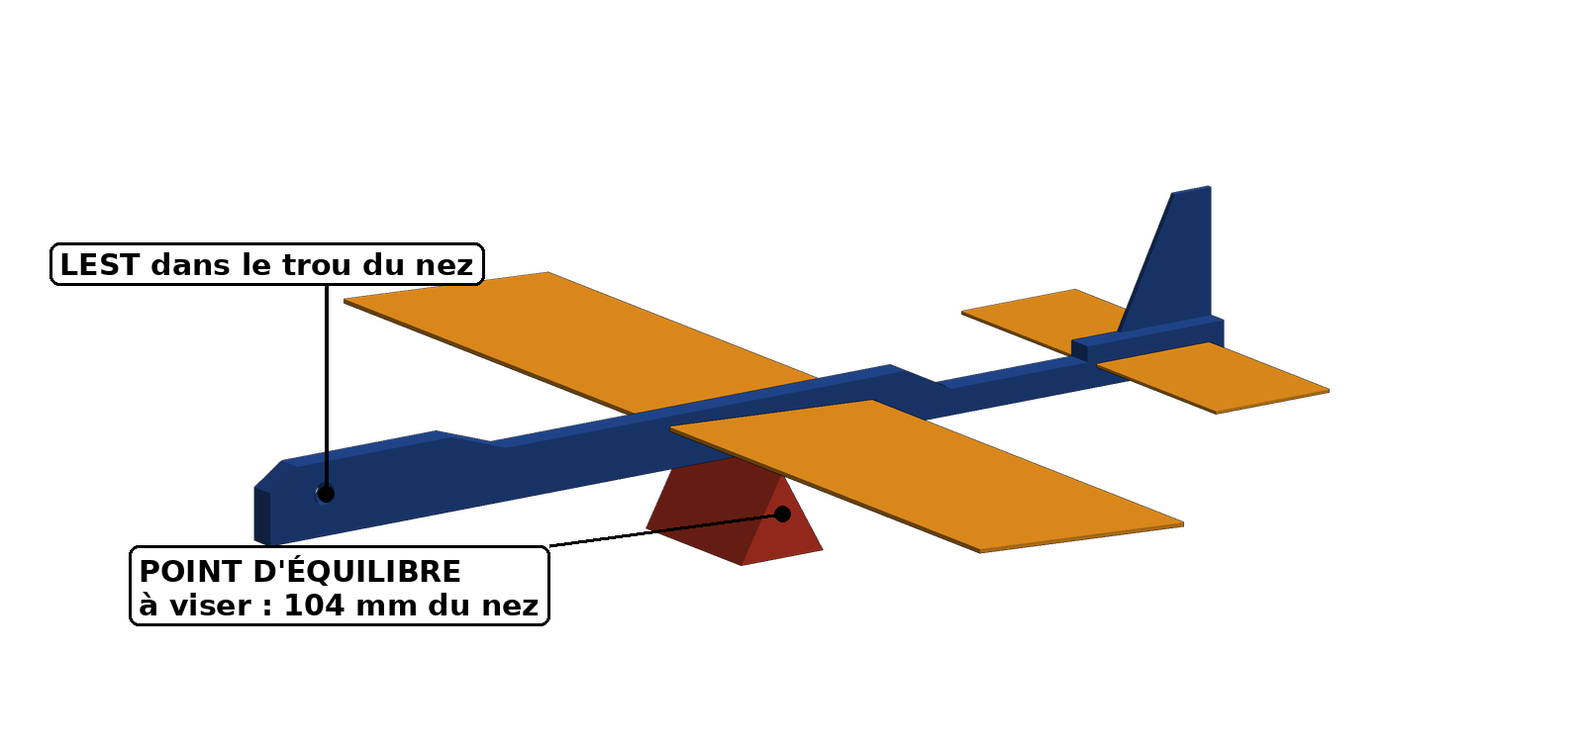
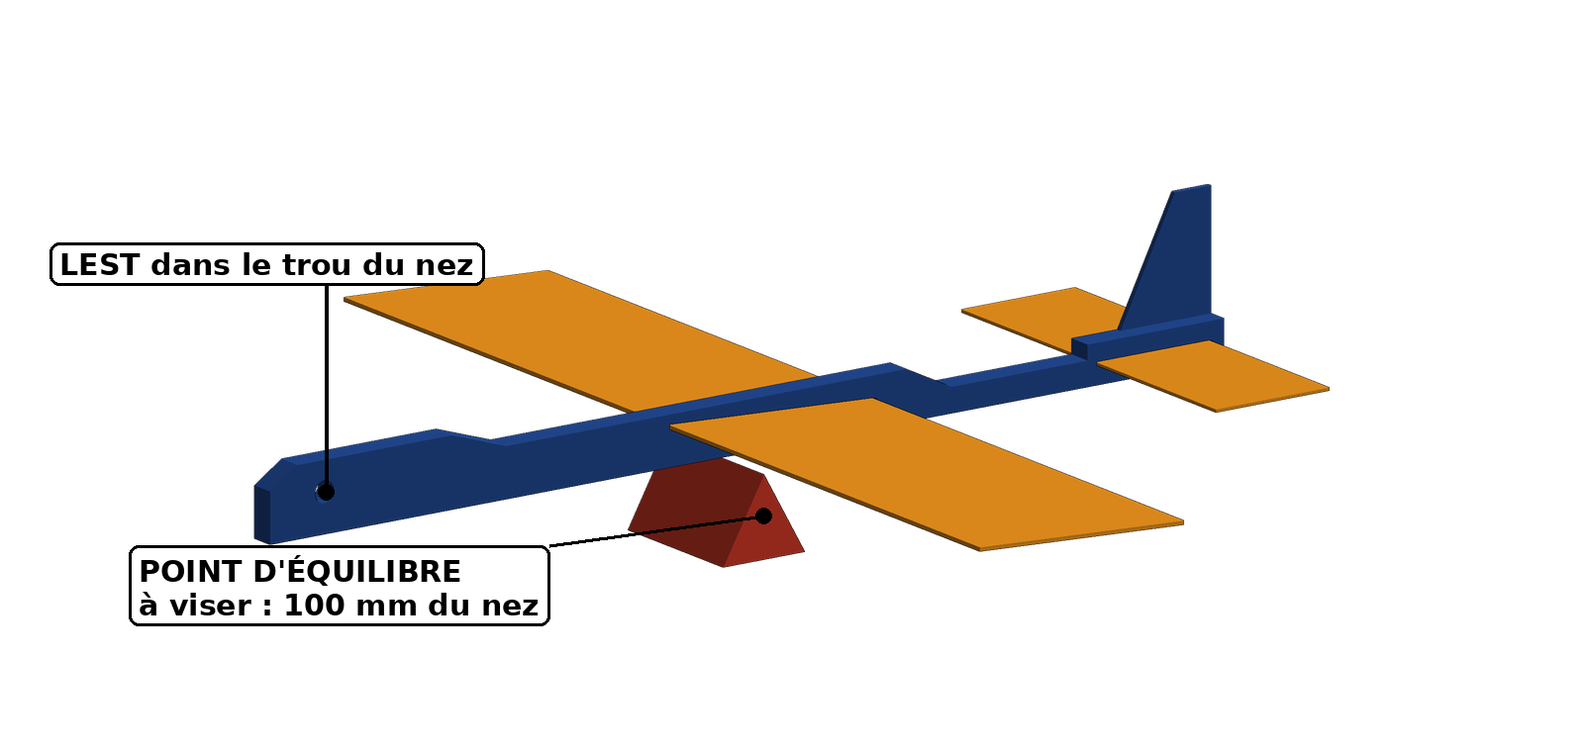
Seconde SI, projet planeur : simulateur de vol
Onglet Simulateur (modèle 2D : poids, portance, traînée, stabilisateur, décrochage),
comparaison de deux vols, distance prévue envoyée dans le carnet d'essais avec l'écart
prévu / mesuré. Planeur de départ réglé à 27 % de la corde (100 mm, 3,9 g de lest).

Claude-Session: https://claude.ai/code/session_01LEL1YR2pphRKncckxF2ooe

diff --git a/entrainements/2si-planeur.html b/entrainements/2si-planeur.html
@@ -26,6 +26,18 @@
 .pl-leg{display:flex;flex-wrap:wrap;gap:4px 14px;font-size:.88rem;margin:0 0 10px}
 .pl-leg i{display:inline-block;width:12px;height:12px;border-radius:3px;margin-right:5px;vertical-align:-1px}
 .pl-et-thumb{width:96px;height:56px;object-fit:contain}
+.sim-haut{display:flex;gap:22px;align-items:center;flex-wrap:wrap}
+.sim-dist{font-family:var(--f-disp);font-weight:700;font-size:2.6rem;line-height:1;color:var(--accent)}
+.sim-verdict{display:flex;flex-direction:column;gap:4px;flex:1;min-width:240px}
+.sim-res{display:grid;grid-template-columns:repeat(auto-fit,minmax(190px,1fr));gap:6px 18px;margin-top:8px}
+.sim-res div{display:flex;justify-content:space-between;gap:10px;border-bottom:1px solid var(--rule);padding:3px 0;font-size:.93rem}
+.sim-grille{display:grid;grid-template-columns:repeat(auto-fit,minmax(300px,1fr));gap:12px;margin-bottom:12px}
+.sim-grille .carte{margin:0}
+.sim-ligne{display:grid;grid-template-columns:1fr;gap:2px;margin:9px 0;font-size:.93rem}
+.sim-ctl{display:flex;align-items:center;gap:10px}
+.sim-ligne input[type=range]{flex:1;min-width:0}
+.sim-val{display:flex;align-items:center;gap:5px;color:var(--ink-3);min-width:7.6em}
+.sim-val input{width:5.4em;font:inherit;padding:3px 5px;border:1px solid var(--rule);border-radius:4px;background:var(--paper);color:var(--ink)}
 @media (max-width:640px){.pl-trio{grid-template-columns:1fr}.pl-hero{grid-template-columns:1fr}.pl-et-thumb{display:none}}
 table.pl{width:100%;border-collapse:collapse;font-size:.95rem;margin:8px 0}
 table.pl th,table.pl td{border:1px solid var(--rule);padding:7px 9px;text-align:left;vertical-align:top}
@@ -73,6 +85,7 @@ kbd{font-family:var(--f-mono);font-size:.85em;border:1px solid var(--rule);borde
   <button role="tab" data-s="comprendre">Comprendre</button>
   <button role="tab" data-s="etapes">Les étapes</button>
   <button role="tab" data-s="onshape">Missions Onshape</button>
+  <button role="tab" data-s="sim">Simulateur</button>
   <button role="tab" data-s="essais">Mes essais</button>
   <button role="tab" data-s="eval">Évaluation</button>
 </div>
@@ -84,7 +97,7 @@ kbd{font-family:var(--f-mono);font-size:.85em;border:1px solid var(--rule);borde
     <ul>
       <li>Équipes de 2 ou 3. Un planeur par équipe.</li>
       <li>Chaque planeur est lancé <b>3 fois</b>, à la main, depuis la ligne de départ, par le même élève de l'équipe. On garde la <b>moyenne</b> des 3 distances.</li>
-      <li>Le lancer se fait <b>à plat, droit devant</b>, les pieds derrière la ligne. On pousse le planeur, on ne le jette pas vers le haut.</li>
+      <li>Le lancer se fait <b>à plat, droit devant</b>, les pieds derrière la ligne. On le lance franchement, sans viser le haut.</li>
       <li>La distance se mesure de la ligne de départ jusqu'au <b>premier point où le planeur touche le sol</b>.</li>
       <li>Tu as droit à deux versions : la version 1, puis une version 2 améliorée après les essais.</li>
     </ul>
@@ -117,7 +130,7 @@ kbd{font-family:var(--f-mono);font-size:.85em;border:1px solid var(--rule);borde
   <details class="carte no-print"><summary><b>Pour le professeur : fichiers à imprimer</b></summary>
     <p><b>Catapulte (version 2), facultative</b> : les essais se font à la main, elle ne sert que si tu veux un lancer mécanique. Fichiers : <a href="2si-planeur/catapulte_rail_avant.stl" download>rail avant</a> · <a href="2si-planeur/catapulte_rail_arriere.stl" download>rail arrière</a> · <a href="2si-planeur/catapulte_chariot.stl" download>chariot</a> · <a href="2si-planeur/catapulte_eclisse.stl" download>manchon de jonction</a> · <a href="2si-planeur/catapulte_pied_avant.stl" download>pied avant</a> · <a href="2si-planeur/catapulte_pied_arriere.stl" download>pied arrière</a>. Il faut en plus deux tiges de 3 mm (clous ou vis M3 de 20 mm) et un élastique. Mode d'emploi en images : <a href="2si-planeur/img_1_ensemble.png" target="_blank" rel="noopener">1. montée et armée</a> · <a href="2si-planeur/img_2_montage.png" target="_blank" rel="noopener">2. le montage</a> · <a href="2si-planeur/img_3_coupe.png" target="_blank" rel="noopener">3. vue en coupe</a> · <a href="2si-planeur/img_4_apres.png" target="_blank" rel="noopener">4. après le tir</a> · <a href="2si-planeur/catapulte_v2_mode_emploi.png" target="_blank" rel="noopener">schéma de côté</a>.</p>
     <p><b>Planeurs de démonstration (version 2)</b> (ils gardent un crochet sous le nez, qui sert aussi de prise pour les doigts), une aile et un stabilisateur pour les trois fuselages : <a href="2si-planeur/planeur_aile.stl" download>aile</a> · <a href="2si-planeur/planeur_stabilisateur.stl" download>stabilisateur</a> · <a href="2si-planeur/planeur_fuselage_reference.stl" download>fuselage de référence</a> · <a href="2si-planeur/planeur_fuselage_cabre.stl" download>fuselage qui cabre</a> · <a href="2si-planeur/planeur_fuselage_pique.stl" download>fuselage qui pique</a>. <a href="2si-planeur/planeurs_v2_apercu.png" target="_blank" rel="noopener">Aperçu</a>.</p>
-    <p><b>Planeur de départ des élèves</b> (celui des missions 3 à 6, pour le tester avant eux) : <a href="2si-planeur/depart_fuselage.stl" download>fuselage</a> · <a href="2si-planeur/depart_aile.stl" download>aile</a> · <a href="2si-planeur/depart_stabilisateur.stl" download>stabilisateur</a>. Il lui faut environ 2,6 g de lest dans le trou du nez.</p>
+    <p><b>Planeur de départ des élèves</b> (celui des missions 3 à 6, pour le tester avant eux) : <a href="2si-planeur/depart_fuselage.stl" download>fuselage</a> · <a href="2si-planeur/depart_aile.stl" download>aile</a> · <a href="2si-planeur/depart_stabilisateur.stl" download>stabilisateur</a>. Il lui faut environ 3,9 g de lest dans le trou du nez, pour un point d'équilibre à 100 mm du nez.</p>
     <p><a class="btn" href="2si-planeur-notes.html">Noter les équipes →</a></p>
     <p class="discret">Fuselages et chariot à 100 % de remplissage, posés à plat. L'aile s'imprime debout sur son bord d'attaque, avec une bordure d'adhérence. Les limites du cahier des charges et le barème se changent directement dans cette page (<code>entrainements/2si-planeur.html</code>).</p>
   </details>
@@ -198,7 +211,7 @@ kbd{font-family:var(--f-mono);font-size:.85em;border:1px solid var(--rule);borde
     </svg>
     <div class="formule">charge alaire = <span class="frac"><span class="nu">masse du planeur</span><span class="sr"> sur </span><span class="de">surface de l'aile</span></span></div>
     <p>Plus la charge alaire est <b>petite</b>, plus le planeur peut voler lentement sans tomber. Un planeur chargé doit aller vite, et un lancer un peu mou ne lui suffit pas.</p>
-    <p class="astuce"><b>Pour ton planeur :</b> deux façons de baisser la charge alaire : <b>enlever de la masse</b> (pièces plus fines, arrière allégé, donc moins de lest) ou <b>agrandir l'aile</b> (mais elle pèse alors plus lourd). Le planeur de départ est à environ 0,29 g/cm².</p>
+    <p class="astuce"><b>Pour ton planeur :</b> deux façons de baisser la charge alaire : <b>enlever de la masse</b> (pièces plus fines, arrière allégé, donc moins de lest) ou <b>agrandir l'aile</b> (mais elle pèse alors plus lourd). Le planeur de départ est à environ 0,30 g/cm².</p>
   </div>
 
   <div class="carte"><div class="eyebrow">Notion 5</div>
@@ -349,8 +362,8 @@ kbd{font-family:var(--f-mono);font-size:.85em;border:1px solid var(--rule);borde
       <tr><td>Stabilisateur</td><td class="n">1,2 cm³</td><td class="n">1,5 g</td></tr>
       <tr><th>Planeur de départ, sans lest</th><th class="n"></th><th class="n">23 g</th></tr>
     </table></div>
-    <p>Ce planeur a la queue trop lourde : sans lest, son point d'équilibre est à <b>115 mm</b> du nez, trop en arrière. Il lui faut environ <b>2,8 g</b> dans le trou du nez (une vis M4 avec son écrou, ou de la pâte à fixe) pour le ramener vers <b>104 mm</b>. Total : environ <b>26 g</b>.</p>
-    <figure class="pl-fig"><img class="pl-img" src="2si-planeur/img/m6.png" alt="Planeur de départ monté, posé en équilibre sur une cale placée sous l'aile" loading="lazy"><figcaption>Le planeur de départ monté : il doit tenir en équilibre sur une cale placée à 104 mm du nez</figcaption></figure>
+    <p>Ce planeur a la queue trop lourde : sans lest, son point d'équilibre est à <b>115 mm</b> du nez, trop en arrière. Il lui faut environ <b>3,9 g</b> dans le trou du nez (une vis M4 avec son écrou, ou de la pâte à fixe) pour le ramener vers <b>100 mm</b>. Total : environ <b>27 g</b>.</p>
+    <figure class="pl-fig"><img class="pl-img" src="2si-planeur/img/m6.png" alt="Planeur de départ monté, posé en équilibre sur une cale placée sous l'aile" loading="lazy"><figcaption>Le planeur de départ monté : il doit tenir en équilibre sur une cale placée à 100 mm du nez</figcaption></figure>
   <p class="astuce"><b>Mission réussie si</b> tes trois volumes sont ceux du tableau.</p></div>
 
   <div class="carte"><div class="eyebrow">Mission 7</div><h2 style="margin-top:.1em">À toi : rends-le meilleur</h2><p class="discret" style="margin-top:0">Le planeur de départ vole, mais il est lourd : plus léger, il volera plus lentement et pardonnera mieux le lancer. Voici ce que tu peux changer, et les notions de l'onglet « Comprendre » t'expliquent pourquoi.</p>
@@ -388,14 +401,41 @@ kbd{font-family:var(--f-mono);font-size:.85em;border:1px solid var(--rule);borde
   <p class="astuce"><b>Mission réussie si</b> le professeur a reçu tes trois fichiers et qu'ils s'ouvrent dans le logiciel de l'imprimante.</p></div>
 </section>
 
+<!-- ============ SIMULATEUR ============ -->
+<section class="pl-sec" id="s-sim" hidden>
+  <p><b>Teste ton planeur avant de l'imprimer.</b> Entre ses valeurs, regarde le vol prévu, change un seul réglage à la fois. Puis note la distance prévue dans ton carnet : après les vrais lancers, tu compareras.</p>
+  <div class="carte">
+    <div class="sim-haut">
+      <div><div class="eyebrow">Vol prévu</div><div class="sim-dist"><span id="sim-d">–</span> m</div></div>
+      <div id="sim-verdict" class="sim-verdict"></div>
+    </div>
+    <div id="sim-svg"></div>
+    <div class="sim-res" id="sim-res"></div>
+    <p class="no-print" style="margin:.6em 0 0"><button class="btn sec" id="sim-ref">Garder ce vol en gris pour comparer</button> <button class="btn sec" id="sim-ref0">Effacer le vol gris</button> &nbsp; Noter la distance prévue dans mon carnet : <button class="btn sec" data-carnet="0">Version 1</button> <button class="btn sec" data-carnet="1">Version 2</button> <span id="sim-ok" class="discret"></span></p>
+  </div>
+  <div class="sim-grille" id="sim-entrees"></div>
+  <p class="no-print">Partir d'un exemple : <button class="btn sec" data-ex="depart">Planeur de départ, lesté</button> <button class="btn sec" data-ex="sanslest">Planeur de départ, sans lest</button> <button class="btn sec" data-ex="trop">Planeur de départ, trop de lest</button></p>
+  <details class="carte"><summary><b>Comment le simulateur calcule (et ce qu'il ne sait pas)</b></summary>
+    <p>Le simulateur traite le planeur comme un objet qui avance, monte, descend et bascule autour de son point d'équilibre. Toutes les 2 millièmes de seconde, il calcule quatre forces et recommence :</p>
+    <ul>
+      <li>le <b>poids</b>, à partir de la masse ;</li>
+      <li>la <b>portance de l'aile</b>, à partir de sa surface, de sa vitesse et de son inclinaison dans l'air, avec un maximum : au-delà, l'aile <b>décroche</b> ;</li>
+      <li>la <b>portance du stabilisateur</b>, qui ramène le planeur à plat ;</li>
+      <li>la <b>traînée</b>, qui freine.</li>
+    </ul>
+    <p><b>Ce qu'il ne sait pas</b> : les bavures, une aile montée de travers, le vent, un lancer qui part en biais. Ses coefficients sont des ordres de grandeur pour une plaque fine. Il donne donc bien les <b>tendances</b> (ce réglage est meilleur que celui-là, il va cabrer, il va piquer), mais pas la distance au mètre près.</p>
+    <p class="astuce">Un écart entre la distance prévue et la distance mesurée n'est pas une faute : c'est un résultat. Ton travail est de l'expliquer.</p>
+  </details>
+</section>
+
 <!-- ============ MES ESSAIS ============ -->
 <section class="pl-sec" id="s-essais" hidden>
   <div class="carte pl-essais">
     <h2 style="margin-top:0">Carnet d'essais</h2>
-    <p>Trois lancers par version, par le même lanceur et de la même façon. Le site calcule la moyenne et l'écart entre tes versions. <span class="discret">Le carnet est gardé sur cet appareil : imprime-le ou recopie-le pour le rendre.</span></p>
+    <p>Trois lancers par version, par le même lanceur et de la même façon. Le site calcule la moyenne, l'écart entre tes versions, et l'écart entre ce que le simulateur avait prévu et ce que tu as mesuré. <span class="discret">Le carnet est gardé sur cet appareil : imprime-le ou recopie-le pour le rendre.</span></p>
     <p><label>Équipe : <input type="text" id="equipe" style="width:16em;min-width:0" placeholder="noms des membres"></label> &nbsp; <label>Lanceur : <input type="text" id="cran" style="width:10em;min-width:0" placeholder="prénom"></label></p>
     <div class="pl-scroll"><table class="pl" id="t-essais">
-      <tr><th>Version</th><th class="n">Masse (g)</th><th class="n">Lancer 1 (m)</th><th class="n">Lancer 2 (m)</th><th class="n">Lancer 3 (m)</th><th class="n">Moyenne</th><th>Ce que j'observe en vol</th></tr>
+      <tr><th>Version</th><th class="n">Masse (g)</th><th class="n">Lancer 1 (m)</th><th class="n">Lancer 2 (m)</th><th class="n">Lancer 3 (m)</th><th class="n">Moyenne</th><th class="n">Prévu par le simulateur (m)</th><th class="n">Écart prévu / mesuré</th><th>Ce que j'observe en vol</th></tr>
     </table></div>
     <p id="bilan" class="formule" hidden></p>
     <h3 style="margin-top:18px">Entre la version 1 et la version 2</h3>
@@ -410,7 +450,7 @@ kbd{font-family:var(--f-mono);font-size:.85em;border:1px solid var(--rule);borde
     <ul>
       <li>Tiens le fuselage entre le pouce et l'index, <b>juste sous l'aile</b>, là où il tient en équilibre.</li>
       <li>Planeur <b>à plat</b>, nez à peine vers le bas. Vise un point au sol à une dizaine de mètres.</li>
-      <li><b>Pousse</b> droit devant, d'un geste souple, sans le jeter et sans le lancer vers le haut.</li>
+      <li><b>Lance franchement</b>, droit devant, comme une fléchette, sans viser le haut. Un planeur de 25 g a besoin d'environ 8 m/s pour voler : un geste trop mou, et il tombe.</li>
       <li>Le même lanceur fait tous les lancers de l'équipe, de la même façon. Un lancer raté (planeur qui glisse des doigts) se refait.</li>
     </ul>
   </div>
@@ -453,6 +493,7 @@ kbd{font-family:var(--f-mono);font-size:.85em;border:1px solid var(--rule);borde
 </section>
 </main>
 
+<script src="2si-planeur/modele.js"></script>
 <script>
 /* ---------- Réglages : étapes, barème, critères (à modifier ici) ---------- */
 const C = (id, t) => ({ k: "c", id, t });          // une case à cocher
@@ -482,6 +523,7 @@ const ETAPES = [
   { t: "Concevoir ma version 1", img: "m7a", but: "Transformer le planeur de départ pour qu'il aille plus loin, sans sortir du cahier des charges.", items: [
     C("5n", "Avant de modifier, lis les notions 4 à 7 de l'onglet « Comprendre » : charge alaire, stabilité, calage, forme de l'aile."),
     C("m7", "Mission 7 : je duplique le planeur de départ, puis je le change une cote à la fois."),
+    C("5s", "Entre les valeurs de ta version 1 dans l'onglet « Simulateur », règle le point d'équilibre, puis note la distance prévue dans ton carnet."),
     C("4c", "Relève dans Onshape les dimensions et le volume de chaque pièce, puis remplis la fiche ci-dessous."),
     B("fiche"),
     C("4d", "Toutes les lignes de la fiche sont vertes."),
@@ -495,6 +537,7 @@ const ETAPES = [
     C("5f", "Décris le vol, puis choisis UNE seule modification avec le tableau « Lire le vol de ton planeur »."),
     C("5g", "Remplis les trois lignes « Entre la version 1 et la version 2 » dans « Mes essais ».") ] },
   { t: "Concevoir la version 2", img: "m7c", but: "Améliorer en changeant une seule chose.", items: [
+    C("6s", "Teste d'abord ta modification dans le « Simulateur », en gardant la version 1 en gris. Note la distance prévue pour la version 2."),
     C("6a", "Modifie ton modèle Onshape en changeant une cote (pas en redessinant)."),
     C("6b", "Vérifie de nouveau la fiche de conformité (étape 5) avec les nouvelles valeurs."),
     C("6c", "Exporte les fichiers STL de la version 2 (nom : equipe_piece_v2.stl) et envoie-les."),
@@ -521,7 +564,7 @@ const CRITERES = [
   ["B3 · Prêt à imprimer", "Fichiers manquants ou inutilisables", "STL fournis, à corriger avant impression", "STL corrects, pièces à plat, épaisseurs multiples de 0,2 mm", "STL corrects du premier coup, bien nommés, rendus à temps"],
   ["C1 · Mesures", "Pas de mesures notées", "Mesures incomplètes, ou lancers pas comparables", "3 lancers par version, même lanceur et même geste, moyenne juste", "Mesures complètes, et la régularité des lancers est commentée"],
   ["C2 · Modification", "Aucune modification, ou tout changé d'un coup", "Une modification, sans raison donnée", "Une seule modification, justifiée par une observation du vol", "Une seule modification, justifiée, avec le résultat attendu annoncé avant l'essai"],
-  ["C3 · Analyse", "Pas de conclusion", "« C'est mieux » ou « c'est moins bien », sans chiffre", "Écart entre les deux versions calculé et commenté", "Écart calculé, comparé à la variation entre lancers, et suite proposée"],
+  ["C3 · Analyse", "Pas de conclusion", "« C'est mieux » ou « c'est moins bien », sans chiffre", "Écart entre les deux versions calculé et commenté", "Écart calculé, comparé à la variation entre lancers et à la prévision du simulateur, et suite proposée"],
   ["E · Esthétique", "Pièces brutes : bavures, aile de travers", "Planeur propre, forme très simple (rectangles)", "Forme travaillée, proportions agréables, finition soignée", "Un vrai style : forme originale, nom ou signe de l'équipe, sans nuire au vol"],
   ["F · Équipe", "Un seul membre travaille", "Travail inégal, retards", "Chacun a une part visible du travail, délais tenus", "Équipe autonome, qui aide aussi les autres"]
 ];
@@ -596,11 +639,12 @@ const T = document.getElementById("t-essais");
 VERSIONS.forEach((v, i) => { const e = D.essais[i] || {}; const tr = document.createElement("tr");
   tr.innerHTML = `<td><b>${v}</b></td><td class="n"><input type="number" step="0.1" min="0" data-v="${i}" data-k="m" value="${esc(e.m)}" aria-label="masse ${v}"></td>` +
     [1, 2, 3].map((k) => `<td class="n"><input type="number" step="0.01" min="0" data-v="${i}" data-k="d${k}" value="${esc(e["d" + k])}" aria-label="lancer ${k} ${v}"></td>`).join("") +
-    `<td class="n pl-moy" id="moy${i}">—</td><td><input type="text" data-v="${i}" data-k="obs" value="${esc(e.obs)}" aria-label="observation ${v}"></td>`; T.appendChild(tr); });
+    `<td class="n pl-moy" id="moy${i}">—</td><td class="n"><input type="number" step="0.1" min="0" data-v="${i}" data-k="prev" value="${esc(e.prev)}" aria-label="distance prévue ${v}"></td><td class="n pl-moy" id="ec${i}">—</td><td><input type="text" data-v="${i}" data-k="obs" value="${esc(e.obs)}" aria-label="observation ${v}"></td>`; T.appendChild(tr); });
 function moyenne(i) { const e = D.essais[i] || {}; const L = [e.d1, e.d2, e.d3].map(parseFloat).filter((x) => isFinite(x) && x >= 0); return L.length === 3 ? (L[0] + L[1] + L[2]) / 3 : null; }
 function calcul() {
   const M = VERSIONS.map((v, i) => moyenne(i));
-  M.forEach((m, i) => document.getElementById("moy" + i).textContent = m == null ? "—" : nbfr(m) + " m");
+  M.forEach((m, i) => { document.getElementById("moy" + i).textContent = m == null ? "—" : nbfr(m) + " m";
+    const pv = parseFloat((D.essais[i] || {}).prev); document.getElementById("ec" + i).textContent = m != null && m > 0 && isFinite(pv) ? nbfr(Math.abs(pv - m) / m * 100, 0) + " %" : "—"; });
   const b = document.getElementById("bilan");
   if (M[0] != null && M[1] != null && M[0] > 0) { const ec = Math.abs(M[1] - M[0]) / M[0] * 100;
     b.hidden = false; b.textContent = `Version 2 : ${M[1] > M[0] ? "+" : M[1] < M[0] ? "−" : ""}${nbfr(Math.abs(M[1] - M[0]))} m par rapport à la version 1 · écart relatif ${nbfr(ec, 0)} %`; } else b.hidden = true;
@@ -618,6 +662,67 @@ const COULEURS = ["#1d3f7a", "#2f6fbf", "#1b7f4b", "#b8860b", "#b5477a", "#5b677
 document.getElementById("bar-bareme").innerHTML = `<div class="pl-bar" role="img" aria-label="Répartition des 20 points">${BAREME.map((b, i) => `<span style="flex:${b[3]};background:${COULEURS[i]}">${b[3]}</span>`).join("")}</div><div class="pl-leg">${BAREME.map((b, i) => `<span><i style="background:${COULEURS[i]}"></i>${b[1]}</span>`).join("")}</div>`;
 document.getElementById("t-criteres").innerHTML = `<tr><th>Critère</th><th>Niveau 1 · insuffisant</th><th>Niveau 2 · fragile</th><th>Niveau 3 · attendu</th><th>Niveau 4 · très bien</th></tr>` +
   CRITERES.map((c) => `<tr><td><b>${c[0]}</b></td>${c.slice(1).map((x) => `<td>${x}</td>`).join("")}</tr>`).join("") + `<tr><td colspan="5">${PERF}</td></tr><tr><td colspan="5">${POINTS_NIVEAU}</td></tr>`;
+
+/* ---------- Simulateur de vol ---------- */
+(function () {
+  const M = window.PlaneurModele; if (!M) return;
+  const PARAMS = [
+    ["Le planeur", [["m", "Masse totale, lest compris", "g", 10, 40, 0.1, 26.8], ["env", "Envergure de l'aile", "mm", 100, 210, 5, 200], ["corde", "Corde de l'aile", "mm", 25, 70, 1, 45], ["envS", "Envergure du stabilisateur", "mm", 40, 120, 5, 80], ["cordeS", "Corde du stabilisateur", "mm", 15, 40, 1, 25], ["L", "Longueur du fuselage", "mm", 150, 210, 5, 210]]],
+    ["Les réglages", [["xG", "Point d'équilibre, depuis le nez", "mm", 60, 150, 1, 100], ["xAile", "Avant de l'aile, depuis le nez", "mm", 40, 130, 1, 88], ["xStab", "Avant du stabilisateur, depuis le nez", "mm", 130, 200, 1, 182], ["calage", "Inclinaison de la fente de l'aile", "°", 0, 6, 0.5, 3]]],
+    ["Le lancer", [["h0", "Hauteur de la main", "m", 1, 2, 0.1, 1.5], ["v0", "Vitesse du lancer", "m/s", 4, 14, 0.5, 9], ["g0", "Direction du lancer (0 = à plat)", "°", -10, 20, 1, 0]]]
+  ];
+  const EX = { depart: { m: 26.8, xG: 100 }, sanslest: { m: 23.0, xG: 115 }, trop: { m: 30, xG: 92 } };
+  const DEF = {}; PARAMS.forEach((g) => g[1].forEach((p) => DEF[p[0]] = p[6]));
+  D.sim = Object.assign({}, DEF, D.sim || {});
+  const fmt = (x, n) => (Math.round(x * Math.pow(10, n)) / Math.pow(10, n)).toFixed(n).replace(".", ",");
+  document.getElementById("sim-entrees").innerHTML = PARAMS.map((g) => `<div class="carte"><h3 style="margin-top:0">${g[0]}</h3>${g[1].map((p) => `<label class="sim-ligne"><span>${p[1]}</span><span class="sim-ctl"><input type="range" min="${p[3]}" max="${p[4]}" step="${p[5]}" data-s="${p[0]}"><span class="sim-val"><input type="number" min="${p[3]}" max="${p[4]}" step="${p[5]}" data-n="${p[0]}"> ${p[2]}</span></span></label>`).join("")}</div>`).join("");
+  const ecrire = () => Object.keys(DEF).forEach((k) => { document.querySelector(`[data-s="${k}"]`).value = D.sim[k]; document.querySelector(`[data-n="${k}"]`).value = D.sim[k]; });
+  const enSI = (s) => ({ m: s.m / 1000, env: s.env / 1000, corde: s.corde / 1000, xAile: s.xAile / 1000, xG: s.xG / 1000, envS: s.envS / 1000, cordeS: s.cordeS / 1000, xStab: s.xStab / 1000, calage: s.calage * Math.PI / 180, L: s.L / 1000, h0: s.h0, v0: s.v0, g0: s.g0 * Math.PI / 180 });
+  let ref = null, dernier = null;
+  function verdict(r, s) {
+    const pct = Math.round(r.pctG * 100);
+    if (s.xStab < s.xAile + s.corde) return ["alerte", "Le stabilisateur est sous l'aile", "Recule le stabilisateur ou avance l'aile : il doit être derrière."];
+    if (r.culbute || r.marge < -0.02) return ["alerte", "Instable : il cabre et part en vrille", `Le point d'équilibre est trop en arrière (${pct} % de la corde). Ajoute du lest dans le nez pour l'avancer.`];
+    if (s.v0 < r.vmin * 0.97) return ["alerte", "Lancer trop lent : il tombe", `Ce planeur a besoin d'au moins ${fmt(r.vmin, 1)} m/s pour voler. Lance plus vite, ou allège-le.`];
+    if (r.tDecroche > 0.25 * r.duree) return ["moyen", "Il vole trop cabré et décroche", pct > 30 ? `Le point d'équilibre est un peu trop en arrière (${pct} % de la corde) : avance-le de quelques millimètres avec du lest.` : "L'aile est trop inclinée, ou le lancer part trop vers le haut."];
+    if (pct < 20) return ["moyen", "Il pique", `Le point d'équilibre est trop en avant (${pct} % de la corde) : enlève du lest du nez.`];
+    return ["ok", "Vol à plat", `Point d'équilibre à ${pct} % de la corde. Change un réglage à la fois pour voir s'il peut aller plus loin.`];
+  }
+  function dessin(r) {
+    const W = 900, H = 330, mg = 46, mb = 44, mh = 16; const dmax = Math.max(12, Math.ceil(Math.max(r.distance, ref ? ref.distance : 0) + 1)), zmax = Math.max(2.4, Math.max(r.hmax, ref ? ref.hmax : 0) + 0.3);
+    const X = (x) => mg + Math.max(0, x) * (W - mg - 14) / dmax, Z = (z) => H - mb - z * (H - mb - mh) / zmax; const sx = (W - mg - 14) / dmax, sz = (H - mb - mh) / zmax;
+    const chemin = (P) => P.map((p, i) => (i ? "L" : "M") + X(p[0]).toFixed(1) + " " + Z(p[1]).toFixed(1)).join(" ");
+    let g = ""; const pas = dmax > 24 ? 5 : dmax > 12 ? 2 : 1;
+    for (let x = 0; x <= dmax; x += pas) g += `<line x1="${X(x)}" y1="${Z(0)}" x2="${X(x)}" y2="${Z(0) + 6}" stroke="currentColor"/><text x="${X(x)}" y="${Z(0) + 20}" font-size="12" text-anchor="middle" fill="currentColor">${x}</text>`;
+    for (let z = 1; z <= zmax; z++) g += `<line x1="${mg - 5}" y1="${Z(z)}" x2="${mg}" y2="${Z(z)}" stroke="currentColor"/><text x="${mg - 8}" y="${Z(z) + 4}" font-size="12" text-anchor="end" fill="currentColor">${z}</text><line x1="${mg}" y1="${Z(z)}" x2="${W - 14}" y2="${Z(z)}" stroke="currentColor" stroke-width=".5" stroke-dasharray="2 6" opacity=".5"/>`;
+    let av = ""; const dtg = Math.max(0.15, r.duree / 9);
+    for (let t = 0, i = 0; i < r.pts.length; i++) if (r.pts[i][3] >= t) { const p = r.pts[i]; const a = -Math.atan2(Math.sin(p[2]) * sz, Math.cos(p[2]) * sx) * 180 / Math.PI;
+      av += `<g transform="translate(${X(p[0]).toFixed(1)} ${Z(p[1]).toFixed(1)}) rotate(${a.toFixed(1)})"><path d="M14 0 H-12 V-7 l5 0 3 7" fill="none" stroke="var(--accent)" stroke-width="2"/><path d="M-3 -2 h9" stroke="#f08c00" stroke-width="3.5"/></g>`; t += dtg; }
+    return `<svg viewBox="0 0 ${W} ${H}" role="img" aria-label="Trajectoire prévue du planeur, vue de côté : il se pose à ${fmt(r.distance, 1)} mètres"><line x1="${mg}" y1="${Z(0)}" x2="${W - 14}" y2="${Z(0)}" stroke="currentColor" stroke-width="2"/><line x1="${mg}" y1="${Z(0)}" x2="${mg}" y2="${mh}" stroke="currentColor" stroke-width="1.5"/>${g}
+      ${ref ? `<path d="${chemin(ref.pts)}" fill="none" stroke="currentColor" stroke-width="2.5" opacity=".35"/><circle cx="${X(ref.distance)}" cy="${Z(0)}" r="5" fill="currentColor" opacity=".4"/>` : ""}
+      <path d="${chemin(r.pts)}" fill="none" stroke="var(--accent)" stroke-width="2.5" stroke-dasharray="7 5"/>${av}<circle cx="${X(r.distance)}" cy="${Z(0)}" r="6" fill="var(--bad)"/>
+      <text x="${(mg + W) / 2}" y="${H - 4}" font-size="13" text-anchor="middle" fill="currentColor">distance depuis la ligne de départ, en mètres</text><text x="12" y="${mh + 4}" font-size="12" fill="currentColor">m</text></svg>`;
+  }
+  function calculer() {
+    const s = D.sim, r = M.simuler(enSI(s)); dernier = r; const v = verdict(r, s);
+    document.getElementById("sim-d").textContent = fmt(Math.max(0, r.distance), 1);
+    document.getElementById("sim-verdict").innerHTML = `<span class="etiquette ${v[0] === "ok" ? "ok" : "alerte"}">${v[1]}</span><span>${v[2]}</span>`;
+    document.getElementById("sim-svg").innerHTML = dessin(r);
+    const ch = s.m / (s.env * s.corde / 100);
+    document.getElementById("sim-res").innerHTML = [["Durée du vol", fmt(r.duree, 1) + " s"], ["Hauteur maximale", fmt(r.hmax, 2) + " m"], ["Vitesse minimale pour voler", fmt(r.vmin, 1) + " m/s"], ["Charge alaire", fmt(ch, 2) + " g/cm²"], ["Point d'équilibre", Math.round(r.pctG * 100) + " % de la corde"], ["Allongement de l'aile", fmt(s.env / s.corde, 1)]].concat(ref ? [["Par rapport au vol gris", (r.distance >= ref.distance ? "+" : "−") + fmt(Math.abs(r.distance - ref.distance), 1) + " m"]] : []).map((x) => `<div><span>${x[0]}</span><b>${x[1]}</b></div>`).join("");
+  }
+  const $in = document.getElementById("sim-entrees");
+  $in.addEventListener("input", (ev) => { const el = ev.target, k = el.dataset.s || el.dataset.n; if (!k) return; const x = parseFloat(el.value); if (!isFinite(x)) return;
+    const p = PARAMS.flatMap((g) => g[1]).find((q) => q[0] === k); D.sim[k] = Math.min(p[4], Math.max(p[3], x));
+    document.querySelector(`[data-s="${k}"]`).value = D.sim[k]; if (el.dataset.s) document.querySelector(`[data-n="${k}"]`).value = D.sim[k]; garder(); calculer(); });
+  document.querySelectorAll("[data-ex]").forEach((b) => b.onclick = () => { D.sim = Object.assign({}, DEF, EX[b.dataset.ex]); ecrire(); garder(); calculer(); });
+  document.getElementById("sim-ref").onclick = () => { ref = dernier; calculer(); };
+  document.getElementById("sim-ref0").onclick = () => { ref = null; calculer(); };
+  document.querySelectorAll("[data-carnet]").forEach((b) => b.onclick = () => { const i = b.dataset.carnet, v = (Math.round(Math.max(0, dernier.distance) * 10) / 10).toString();
+    (D.essais[i] = D.essais[i] || {}).prev = v; const el = document.querySelector(`#t-essais [data-v="${i}"][data-k="prev"]`); if (el) el.value = v; garder(); calcul();
+    document.getElementById("sim-ok").textContent = `Noté : ${v.replace(".", ",")} m prévus pour la version ${+i + 1}.`; });
+  ecrire(); calculer();
+})();
 </script>
 </body>
 </html>

diff --git a/entrainements/2si-planeur/modele.js b/entrainements/2si-planeur/modele.js
@@ -1,0 +1,51 @@
+/* Modèle de vol du planeur (2D, vu de côté) : un corps rigide qui avance, monte, descend et bascule autour de son centre de gravité.
+   Forces : poids, portance et traînée de l'aile, portance du stabilisateur. Coefficients : ordres de grandeur d'une plaque plane à petite vitesse. */
+(function (racine) {
+  const RHO = 1.2, G = 9.81;
+  const COEF = { clmax: 0.75, cd0: 0.055, e: 0.7, rayon: 0.27 };   // portance maxi, traînée de forme, efficacité de l'aile, rayon de giration (en longueurs de fuselage)
+  // Portance d'une plaque : proportionnelle à l'angle, puis décrochage progressif
+  function cl(alpha, pente, clmax) {
+    const as = clmax / pente, s = Math.sign(alpha), a = Math.abs(alpha);
+    if (a <= as) return pente * alpha;
+    const t = Math.min(1, (a - as) / 0.105);
+    return s * ((1 - t) * clmax + t * 0.55 * Math.sin(2 * a));
+  }
+  function derive(p) {
+    const S = p.env * p.corde, AR = p.env / p.corde, St = p.envS * p.cordeS, ARt = p.envS / p.cordeS;
+    const aw = 2 * Math.PI * AR / (AR + 2), at = 2 * Math.PI * ARt / (ARt + 2);
+    const xw = p.xAile + 0.25 * p.corde, xt = p.xStab + 0.25 * p.cordeS;
+    const deda = Math.min(0.6, 2 * aw / (Math.PI * AR));
+    const Vh = St * (xt - xw) / (S * p.corde);
+    const xnp = xw + 0.9 * Vh * (at / aw) * (1 - deda) * p.corde;
+    const vmin = Math.sqrt(2 * p.m * G / (RHO * S * COEF.clmax));
+    return { S, AR, St, ARt, aw, at, xw, xt, deda, xnp, vmin, marge: (xnp - p.xG) / p.corde, pctG: (p.xG - p.xAile) / p.corde, charge: p.m * 1000 / (S * 1e4), I: p.m * Math.pow(COEF.rayon * p.L, 2) };
+  }
+  // p : tout en unités SI (kg, m, rad). Renvoie la trajectoire et les grandeurs du vol.
+  function simuler(p) {
+    const d = derive(p), dt = 0.002;
+    let s = [0, p.h0, p.v0 * Math.cos(p.g0), p.v0 * Math.sin(p.g0), p.g0, 0];   // x, z, vx, vz, theta, q
+    const f = (s) => {
+      const vx = s[2], vz = s[3], th = s[4], q = s[5], V = Math.max(0.3, Math.hypot(vx, vz)), gam = Math.atan2(vz, vx), ab = th - gam;
+      const aW = ab + p.calage, clw = cl(aW, d.aw, COEF.clmax);
+      const aT = ab - d.deda * aW + q * (d.xt - p.xG) / V, clt = cl(aT, d.at, 0.7);
+      const pd = 0.5 * RHO * V * V, Lw = pd * d.S * clw, Lt = pd * d.St * clt;
+      const dec = Math.min(1, Math.max(0, (Math.abs(aW) - COEF.clmax / d.aw) / 0.105));
+      const D = pd * d.S * (COEF.cd0 + clw * clw / (Math.PI * COEF.e * d.AR) + dec * 1.2 * Math.pow(Math.sin(aW), 2)) + pd * d.St * (clt * clt / (Math.PI * COEF.e * d.ARt) + 1.2 * Math.pow(Math.sin(Math.min(1.2, Math.abs(aT))), 2) * (Math.abs(aT) > 0.2 ? 1 : 0));
+      const L = Lw + Lt, cg = Math.cos(gam), sg = Math.sin(gam);
+      const M = (Lw * (p.xG - d.xw) - Lt * (d.xt - p.xG)) * Math.cos(ab) - 0.5 * RHO * V * d.S * p.corde * p.corde * 0.6 * q;
+      return [vx, vz, (-L * sg - D * cg) / p.m, (L * cg - D * sg) / p.m - G, q, M / d.I, aW];
+    };
+    const pts = []; let t = 0, hmax = p.h0, tDec = 0, tours = 0;
+    while (t < 12 && s[1] > 0) {
+      const k1 = f(s), k2 = f(s.map((v, i) => v + dt / 2 * k1[i])), k3 = f(s.map((v, i) => v + dt / 2 * k2[i])), k4 = f(s.map((v, i) => v + dt * k3[i]));
+      if (Math.round(t / dt) % 10 === 0) pts.push([s[0], s[1], s[4], t]);
+      if (Math.abs(k1[6]) > COEF.clmax / d.aw + 0.035) tDec += dt;
+      s = s.map((v, i) => v + dt / 6 * (k1[i] + 2 * k2[i] + 2 * k3[i] + k4[i])); t += dt;
+      hmax = Math.max(hmax, s[1]); if (Math.abs(s[4]) > 2.5) tours = 1;
+      if (s[0] < -3 || s[0] > 80) break;
+    }
+    pts.push([s[0], Math.max(0, s[1]), s[4], t]);
+    return Object.assign({ pts, distance: s[0], duree: t, hmax, tDecroche: tDec, culbute: !!tours }, d);
+  }
+  racine.PlaneurModele = { simuler, derive, COEF };
+})(typeof window !== "undefined" ? window : globalThis);

diff --git a/entrainements/2si-planeur/images.py b/entrainements/2si-planeur/images.py
@@ -56,9 +56,9 @@ sauve(im, 'm4', [("trou de lest", (12, -3, 8), (60, 400)), ("fente de l'aile", (
 im, pr = rendu2([P(Manifold.cube((D.CA, D.BA, D.EA)).translate((0, -100, 0)), ORANGE), P(Manifold.cube((D.CSt, D.BSt, D.ESt)).translate((75, -40, 0)), ORANGE)], az=215, el=32, echelle=6.0, taille=(1500, 620), incl=0)
 sauve(im, 'm5', [("aile : 200 × 45 × 0,8", (22, -40, 1), (80, 470)), ("stabilisateur : 80 × 25 × 0,6", (88, 20, 1), (860, 90))], pr, 30)
 # mission 6 : le planeur monté, en équilibre sur une cale
-cale = ext([(-9, 0), (9, 0), (0, 16)], 30).rotate((90, 0, 0)).translate((104, 15, -16.3))
+cale = ext([(-9, 0), (9, 0), (0, 16)], 30).rotate((90, 0, 0)).translate((100, 15, -16.3))
 im, pr = rendu2(planeur() + [P(cale, ROUGE)], az=235, el=16, echelle=5.6, taille=(1600, 760), incl=0)
-sauve(im, 'm6', [("POINT D'ÉQUILIBRE\nà viser : 104 mm du nez", (104, -15, -8), (140, 560)), ("LEST dans le trou du nez", (12, -3, 8), (60, 250))], pr, 30)
+sauve(im, 'm6', [("POINT D'ÉQUILIBRE\nà viser : 100 mm du nez", (100, -15, -8), (140, 560)), ("LEST dans le trou du nez", (12, -3, 8), (60, 250))], pr, 30)
 # mission 7 : trois idées de transformation
 def plan_effile(b=100, c=45, ct=24): return [(0, -b), (0, b), (ct, b), (c, b * 0.45), (c, -b * 0.45), (ct, -b)]
 def corps_var(LN=40, HN=14, hp=5, ht=8):
@@ -79,9 +79,9 @@ sauve(im, 'm8', [("Chaque pièce est posée à plat :\nrien dans le vide, pas de
 
 # le geste du lancer
 fl = barre((-18, 0, 9), (-70, 0, 9), 1.6); pointe = ext([(0, -7), (0, 7), (-16, 0)], 3).translate((-70, 0, 7.5))
-doigts = [P(Manifold.sphere(7, 24).scale((1, 0.55, 1)).translate((104, s * 6.5, 3)), (235, 190, 150)) for s in (1, -1)]
+doigts = [P(Manifold.sphere(7, 24).scale((1, 0.55, 1)).translate((100, s * 6.5, 3)), (235, 190, 150)) for s in (1, -1)]
 im, pr = rendu2(planeur() + doigts + [P(fl + pointe, ROUGE)], az=225, el=16, echelle=5.0, taille=(1600, 700), incl=4, pivot=(100, 0, 0))
-sauve(im, 'lancer', [("Pouce et index ici,\nsous l'aile, au point d'équilibre", (104, -7, 2), (760, 520)), ("Pousse droit devant,\nplaneur à plat", (-60, 0, 9), (60, 60))], pr, 30)
+sauve(im, 'lancer', [("Pouce et index ici,\nsous l'aile, au point d'équilibre", (100, -7, 2), (760, 520)), ("Pousse droit devant,\nplaneur à plat", (-60, 0, 9), (60, 60))], pr, 30)
 # la mesure : trois lancers depuis la ligne
 W, H = 1500, 520; im = Image.new('RGBA', (W, H), (0, 0, 0, 0)); d = ImageDraw.Draw(im); f = ImageFont.truetype(FB, 30); fn = ImageFont.truetype(FN, 28)
 sol = 400; d.line([(40, sol), (W - 40, sol)], fill=(60, 70, 85), width=6); d.line([(180, sol - 190), (180, sol + 30)], fill=(60, 70, 85), width=8)

diff --git a/entrainements/2si-planeur/missions.py b/entrainements/2si-planeur/missions.py
@@ -152,7 +152,7 @@ SECTION = f'''
       <tr><th>Planeur de départ, sans lest</th><th class="n"></th><th class="n">{fr(J['mt'])} g</th></tr>
     </table></div>
     <p>Ce planeur a la queue trop lourde : sans lest, son point d'équilibre est à <b>{fr(J['xg'], 0)} mm</b> du nez, trop en arrière. Il lui faut environ <b>{fr(J['lest'])} g</b> dans le trou du nez (une vis M4 avec son écrou, ou de la pâte à fixe) pour le ramener vers <b>{fr(J['cible'], 0)} mm</b>. Total : environ <b>{fr(J['mt'] + J['lest'], 0)} g</b>.</p>
-    {fig("m6", "Planeur de départ monté, posé en équilibre sur une cale placée sous l'aile", "Le planeur de départ monté : il doit tenir en équilibre sur une cale placée à 104 mm du nez")}
+    {fig("m6", "Planeur de départ monté, posé en équilibre sur une cale placée sous l'aile", f"Le planeur de départ monté : il doit tenir en équilibre sur une cale placée à {fr(J['cible'], 0)} mm du nez")}
   {ok("tes trois volumes sont ceux du tableau.")}
 
   {m(7, "À toi : rends-le meilleur", "Le planeur de départ vole, mais il est lourd : plus léger, il volera plus lentement et pardonnera mieux le lancer. Voici ce que tu peux changer, et les notions de l'onglet « Comprendre » t'expliquent pourquoi.")}

diff --git a/entrainements/2si-planeur/depart.py b/entrainements/2si-planeur/depart.py
@@ -25,7 +25,7 @@ def bilan(LN=40, HN=14):
     xg = (ma * (XA + CA/2) + ms * (XSt + CSt/2) + mf * F.centroid[0]) / (ma + ms + mf)
     return F, mf, ma + ms + mf, xg
 if __name__ == '__main__':
-    F, mf, mt, xg = bilan(); cible = xnp - 0.08 * CA; lest = mt * (xg - cible) / (cible - TROU[0])
+    F, mf, mt, xg = bilan(); cible = XA + 0.27 * CA; lest = mt * (xg - cible) / (cible - TROU[0])
     assert F.is_watertight
     F.export('depart_fuselage.stl'); tm(Manifold.cube((BA, CA, EA))).export('depart_aile.stl'); tm(Manifold.cube((BSt, CSt, ESt))).export('depart_stabilisateur.stl')
     print(f"point neutre {xnp:.1f} ; cible CG {cible:.1f} ; fuselage {mf:.1f} g ; aile {ma:.1f} g ; stab {ms:.1f} g ; total {mt:.1f} g ; CG sans lest {xg:.1f} ; lest au trou {lest:.1f} g ; total lesté {mt+lest:.1f} g ; volumes cm3 fus {mf/1.24:.1f} aile {ma/1.24:.1f} stab {ms/1.24:.1f}")

diff --git a/LISEZMOI.md b/LISEZMOI.md
@@ -149,7 +149,7 @@ Limite : la clé publique permet en théorie d'appeler la fonction d'enregistrem
 
 `entrainements/2si-planeur.html` = la page du projet (tuile **« Mon projet »** en tête du tableau de bord des Secondes) : le défi et le cahier des charges (envergure et longueur 210 mm, masse 30 g ; depuis le 16 novembre les essais se font à la main, sans catapulte ni crochet imposé — la catapulte reste proposée en option dans le bloc du professeur), un parcours guidé en huit étapes à cocher (fiche d'observation, fiche de conformité qui vérifie seule le cahier des charges, trame de l'oral), huit missions Onshape qui font construire cote par cote un planeur de départ commun puis le transformer (onglet généré par `entrainements/2si-planeur/missions.py` à partir de `depart.py` ; `avions.py` et `catapulte.py` génèrent les STL ; `images.py` et `rendu.py` calculent les images 3D de `entrainements/2si-planeur/img/` à partir des mêmes pièces), le carnet d'essais (3 lancers par version, moyenne et écart relatif calculés, gardé sur l'appareil de l'élève, imprimable) et l'évaluation (barème sur 20 et critères en quatre niveaux). Étapes, barème et critères se modifient en tête du `<script>` de la page (`ETAPES`, `BAREME`, `CRITERES`).
 
-L'onglet « Comprendre » explique sept notions avec des dessins (forces, finesse, centre de gravité, charge alaire, stabilité, calage, allongement). Trois séries notées vont avec (depuis le 16 novembre, presque toutes les questions tirent leurs données au hasard), dans `contenu/seconde-si.js`, séquence « Projet planeur » : `2si-pl-vol`, `2si-pl-onshape`, `2si-pl-essais` (suivies dans l'espace prof comme les autres séries). `entrainements/2si-planeur/` contient les STL de la catapulte version 2 (rail en deux tronçons, chariot, manchon, deux pieds : le chariot porte et pousse le planeur, une goupille le déclenche) et des trois planeurs de démonstration version 2 (référence, qui cabre, qui pique ; aile en V imprimée debout). `entrainements/2si-planeur-notes.html` (lien dans « Pour le professeur ») = la notation des équipes : un niveau 1 à 4 par critère, note sur 20 calculée, export CSV ; les notes restent sur l'appareil du professeur, rien ne part dans la base. Le barème (A connaissances 5, B Onshape 5, C essais 4, D performance 2, E esthétique 2, F équipe 2) est écrit dans les deux pages : changer l'une, changer l'autre.
+L'onglet « Simulateur » calcule le vol prévu à partir des valeurs du planeur (modèle 2D dans `entrainements/2si-planeur/modele.js` : poids, portance et traînée de l'aile, portance du stabilisateur, décrochage ; coefficients dans `COEF`, à recaler sur de vrais lancers) et envoie la distance prévue dans le carnet d'essais, qui affiche l'écart prévu / mesuré. L'onglet « Comprendre » explique sept notions avec des dessins (forces, finesse, centre de gravité, charge alaire, stabilité, calage, allongement). Trois séries notées vont avec (depuis le 16 novembre, presque toutes les questions tirent leurs données au hasard), dans `contenu/seconde-si.js`, séquence « Projet planeur » : `2si-pl-vol`, `2si-pl-onshape`, `2si-pl-essais` (suivies dans l'espace prof comme les autres séries). `entrainements/2si-planeur/` contient les STL de la catapulte version 2 (rail en deux tronçons, chariot, manchon, deux pieds : le chariot porte et pousse le planeur, une goupille le déclenche) et des trois planeurs de démonstration version 2 (référence, qui cabre, qui pique ; aile en V imprimée debout). `entrainements/2si-planeur-notes.html` (lien dans « Pour le professeur ») = la notation des équipes : un niveau 1 à 4 par critère, note sur 20 calculée, export CSV ; les notes restent sur l'appareil du professeur, rien ne part dans la base. Le barème (A connaissances 5, B Onshape 5, C essais 4, D performance 2, E esthétique 2, F équipe 2) est écrit dans les deux pages : changer l'une, changer l'autre.
 
 ## 5. Ajouter du contenu
 
